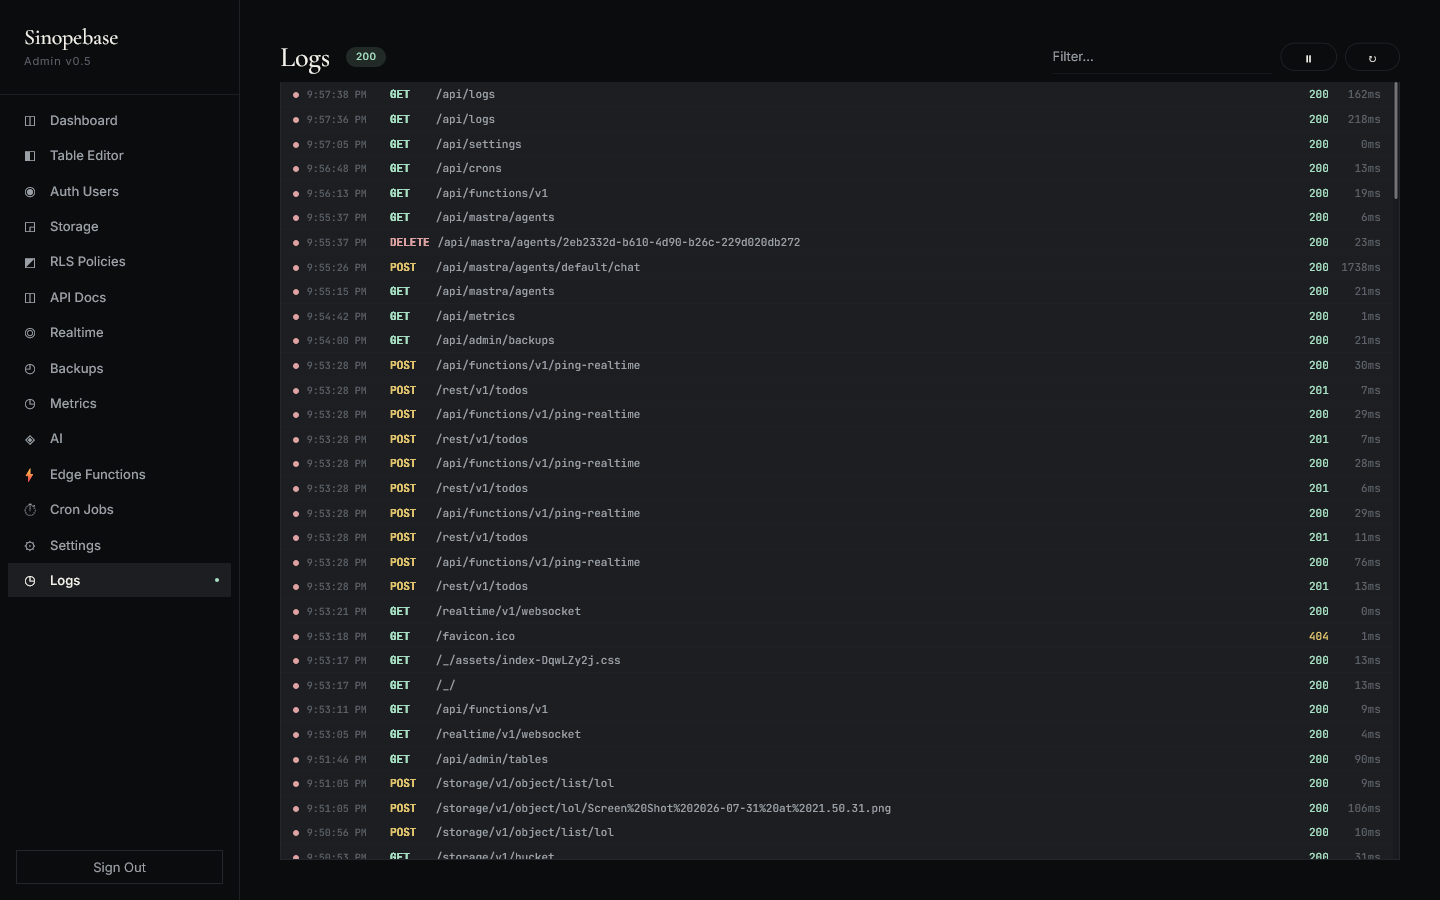
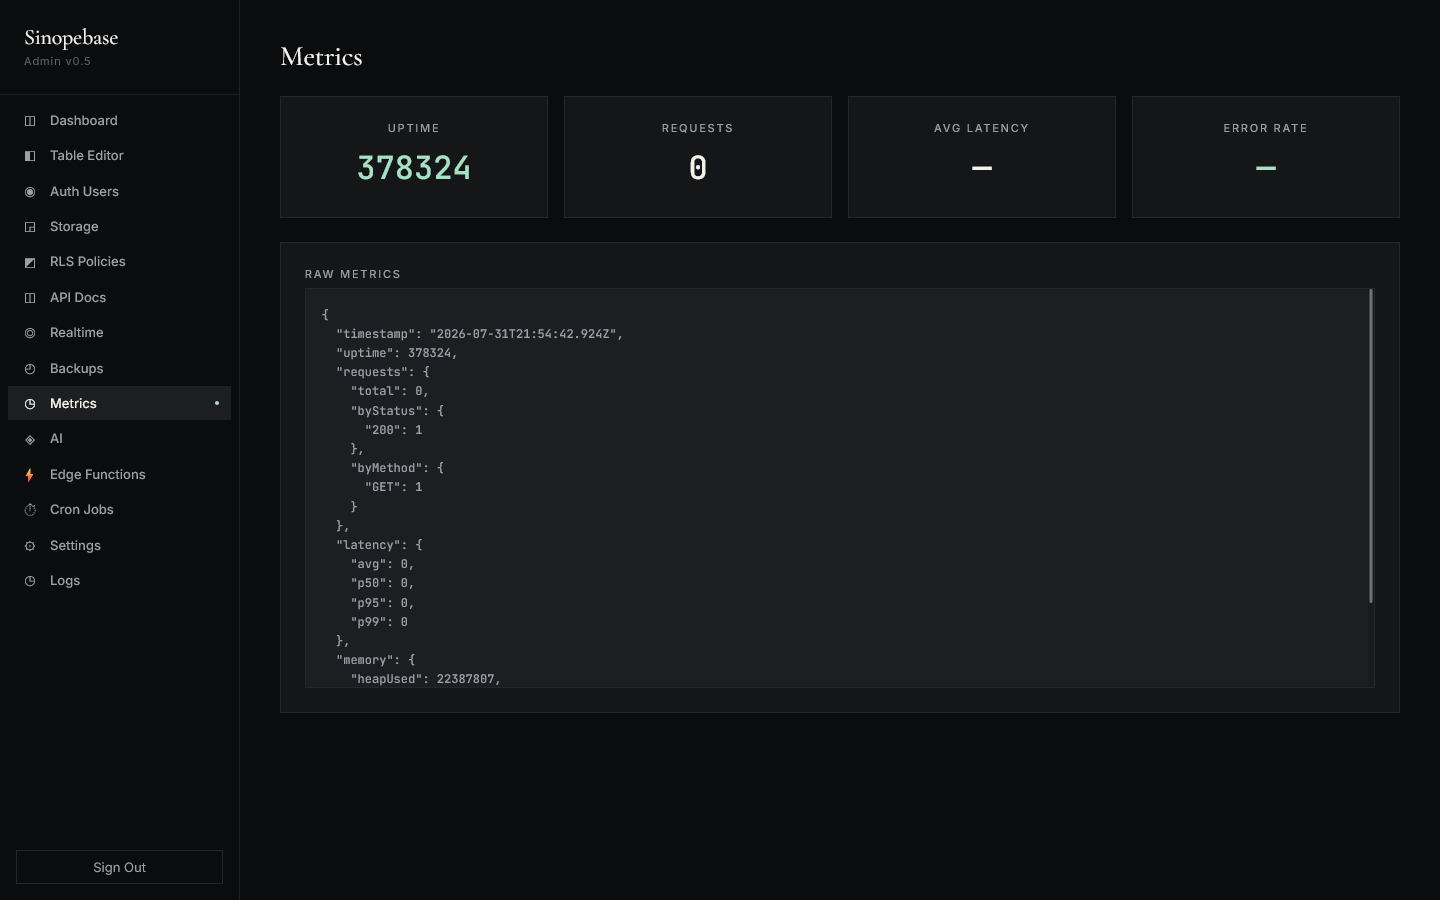
fix: add release workflow, format fixes, remove unused loadProviders import
- .github/workflows/release.yml was untracked — now committed so tag v0.6.0 triggers binary builds
- Format fixes from biome format --write
- Remove unused loadProviders destructure in app.ts (typecheck regression)

diff --git a/src/core/app.ts b/src/core/app.ts
@@ -1403,7 +1403,7 @@ export class Sinopebase {
     }
 
     // ── Admin OAuth Providers API — CRUD for OAuth/OIDC providers ──
-    const { createAdminOAuthPlugin, loadProviders } = await import('../apis/admin-oauth')
+    const { createAdminOAuthPlugin } = await import('../apis/admin-oauth')
     s5.use(
       createAdminOAuthPlugin(
         this.dataDir(),

diff --git a/CONTRIBUTING.md b/CONTRIBUTING.md
@@ -1,0 +1,114 @@
+# Contributing to Sinopebase
+
+Thanks for your interest. Sinopebase follows **acceptance test-driven development (ATDD)** — every feature starts as a failing test that exercises real infrastructure.
+
+## Quick Links
+
+- [Security vulnerabilities → SECURITY.md](SECURITY.md) — do NOT open a public issue
+- [Code of Conduct → CODE_OF_CONDUCT.md](CODE_OF_CONDUCT.md)
+- [Architecture → docs/development.md](docs/development.md)
+
+## Development Setup
+
+```bash
+bun install
+docker compose up -d          # PostgreSQL + RustFS
+bun run dev                   # → http://localhost:8090
+```
+
+## Quality Gates (must pass before PR)
+
+```bash
+bun test                      # Full suite
+bun run typecheck             # tsc --noEmit (strict mode)
+bun run lint                  # Biome + ESLint
+bun run ci                    # All gates
+```
+
+## How to Contribute
+
+### 1. Find or open an issue
+
+All PRs should reference an issue. If you're fixing something without an issue, open one first so we can discuss the approach.
+
+### 2. Write the test first
+
+Sinopebase tests run against real PostgreSQL + RustFS in Docker. No mocks, no SQLite stand-ins.
+
+- Contract tests: `tests/integration/` — HTTP-level, exercise the full stack
+- Component tests: `tests/integration/app-lifecycle.test.ts` — app-level
+- Unit tests: co-located with source (`src/**/*.test.ts`)
+
+```bash
+# Run a specific test file
+bun test tests/integration/auth.test.ts
+
+# Run a specific test pattern
+bun test --test-name-pattern "signInWithPassword"
+```
+
+### 3. Implement
+
+Code style:
+- TypeScript strict mode — no `any`, no implicit returns
+- Use `~/` path aliases (maps to `src/`), not relative paths
+- Elysia for HTTP, Kysely for SQL
+- Match the existing pattern — look at surrounding code
+
+### 4. Open a PR
+
+- Reference the issue number (`Closes #123`)
+- Describe what changed and why
+- Confirm `bun run ci` passes locally
+- Wait for CI to complete (all 9 quality gates must be green)
+
+## Architecture
+
+Five layers, each testable in isolation:
+
+```
+entry-points → apis → forms → core → tools
+```
+
+- **tools** — low-level primitives (auth providers, file stores, DB adapters, mailers)
+- **core** — domain logic (collections, records, fields, events, hooks, cron)
+- **forms** — request/response validation and transformation
+- **apis** — HTTP route definitions (REST, Auth, Realtime, Storage, Functions)
+- **entry-points** — the CLI server binary and plugin wiring
+
+See [docs/development.md](docs/development.md) for the full architecture guide.
+
+## Commit Conventions
+
+```
+phase/domain: what changed
+
+Co-Authored-By: Claude <noreply@anthropic.com>
+```
+
+Examples:
+- `core/rls: fix SET LOCAL ROLE in transaction context`
+- `apis/postgrest: add head count support with content-range header`
+- `ui/table-editor: fix CSV export for empty columns`
+
+## Project Conventions
+
+- **Tests first.** No PR merges without passing tests.
+- **Atomic commits.** One concern per commit. Don't mix refactoring with features.
+- **Plugin pattern.** New subsystems use `class Plugin { constructor(options) {} async register(app, auth?) {} }`.
+- **No silent failures.** Errors propagate. `try {}` blocks always have explicit handling.
+
+## Review Process
+
+1. CI must pass (all 9 gates: test, typecheck, lint, build, UI build, Docker, SAST, dependency audit, container scan)
+2. One maintainer review required
+3. No lingering TODOs in touched code (replace with tracked issues)
+
+## Getting Help
+
+- [GitHub Issues](https://github.com/sinopebase/sinopebase/issues) for bugs and feature requests
+- [GitHub Discussions](https://github.com/sinopebase/sinopebase/discussions) for questions and ideas
+
+---
+
+Thanks for contributing. Ship carefully.

diff --git a/CODE_OF_CONDUCT.md b/CODE_OF_CONDUCT.md
@@ -1,0 +1,41 @@
+# Contributor Covenant Code of Conduct
+
+## Our Pledge
+
+We as members, contributors, and leaders pledge to make participation in our community a harassment-free experience for everyone, regardless of age, body size, visible or invisible disability, ethnicity, sex characteristics, gender identity and expression, level of experience, education, socio-economic status, nationality, personal appearance, race, religion, or sexual identity and orientation.
+
+We pledge to act and interact in ways that contribute to an open, welcoming, diverse, inclusive, and healthy community.
+
+## Our Standards
+
+Examples of behavior that contributes to a positive environment:
+
+- Demonstrating empathy and kindness toward other people
+- Being respectful of differing opinions, viewpoints, and experiences
+- Giving and gracefully accepting constructive feedback
+- Accepting responsibility and apologizing to those affected by our mistakes, and learning from the experience
+- Focusing on what is best not just for us as individuals, but for the overall community
+
+Examples of unacceptable behavior:
+
+- The use of sexualized language or imagery, and sexual attention or advances of any kind
+- Trolling, insulting or derogatory comments, and personal or political attacks
+- Public or private harassment
+- Publishing others' private information, such as a physical or email address, without their explicit permission
+- Other conduct which could reasonably be considered inappropriate in a professional setting
+
+## Enforcement Responsibilities
+
+Community leaders are responsible for clarifying and enforcing our standards of acceptable behavior and will take appropriate and fair corrective action in response to any behavior that they deem inappropriate, threatening, offensive, or harmful.
+
+## Scope
+
+This Code of Conduct applies within all community spaces, and also applies when an individual is officially representing the community in public spaces.
+
+## Enforcement
+
+Instances of abusive, harassing, or otherwise unacceptable behavior may be reported to the community leaders responsible for enforcement at **conduct@sinopebase.dev**. All complaints will be reviewed and investigated promptly and fairly.
+
+## Attribution
+
+This Code of Conduct is adapted from the [Contributor Covenant](https://www.contributor-covenant.org), version 2.1.

diff --git a/SECURITY.md b/SECURITY.md
@@ -1,0 +1,40 @@
+# Security Policy
+
+## Supported Versions
+
+| Version | Supported          |
+| ------- | ------------------ |
+| 0.5.x   | :white_check_mark: |
+| 0.4.x   | :white_check_mark: |
+| < 0.4   | :x:                |
+
+## Reporting a Vulnerability
+
+**Do not open a public issue.** Security vulnerabilities must be reported privately.
+
+Email: **security@sinopebase.dev**
+
+You will receive a response within 48 hours with:
+- Confirmation of receipt
+- An assessment of severity
+- A timeline for the fix
+
+We practice coordinated disclosure:
+1. Report is acknowledged within 48 hours
+2. Fix is developed and tested
+3. A security advisory is published on GitHub
+4. Credit is given to the reporter (unless you prefer anonymity)
+
+## Scope
+
+- The Sinopebase server binary and its HTTP API surface
+- The `sinopebase` SDK package
+- The admin UI (`/_/`)
+- The Docker image and Railway deployment template
+
+## Out of Scope
+
+- Deployments where the operator has disabled security defaults (HSTS, rate limiting, CORS whitelisting)
+- Issues in user-deployed Edge Functions
+- Issues in user-configured Mastra AI agents
+- Phishing or social engineering attacks against instance operators

diff --git a/README.md b/README.md
@@ -7,7 +7,7 @@
 </p>
 
 <p align="center">
-  <a href="https://github.com/sinopebase/sinopebase/actions/workflows/ci.yml"><img src="https://github.com/sinopebase/sinopebase/actions/workflows/ci.yml/badge.svg" alt="CI" /></a>
+  <a href="https://github.com/sinopebase/sinopebase/actions/workflows/ci.yml"><img src="https://github.com/KalvexDotDev/sinopebase/actions/workflows/supply-chain.yml/badge.svg" alt="CI" /></a>
   <a href="https://github.com/sinopebase/sinopebase/actions/workflows/supply-chain.yml"><img src="https://github.com/sinopebase/sinopebase/actions/workflows/supply-chain.yml/badge.svg" alt="Supply Chain" /></a>
   <a href="LICENSE"><img src="https://img.shields.io/badge/license-MIT-blue.svg" alt="License" /></a>
   <a href="https://bun.sh"><img src="https://img.shields.io/badge/runtime-Bun-%23fbf0df?logo=bun" alt="Bun" /></a>

diff --git a/.github/ISSUE_TEMPLATE/bug_report.md b/.github/ISSUE_TEMPLATE/bug_report.md
@@ -1,0 +1,44 @@
+---
+name: Bug Report
+about: Something is broken
+title: ''
+labels: bug
+assignees: ''
+---
+
+## Describe the bug
+
+A clear, concise description of what's broken.
+
+## To Reproduce
+
+Steps to reproduce:
+
+1. Clone and start (`docker compose up -d && bun install && bun run dev`)
+2. Call endpoint '...'
+3. See error
+
+```ts
+// Minimal code to reproduce
+```
+
+## Expected behavior
+
+What should have happened.
+
+## Environment
+
+- OS: [e.g. macOS 15, Windows 11, Ubuntu 24.04]
+- Bun version: [`bun --version`]
+- PostgreSQL version: [`psql --version`]
+- Sinopebase commit: [`git rev-parse HEAD`]
+
+## Logs / Output
+
+```
+Paste relevant server logs, stack traces, or test output here.
+```
+
+## Additional context
+
+Is this a regression? Did it work before? Any workarounds?

diff --git a/.github/ISSUE_TEMPLATE/feature_request.md b/.github/ISSUE_TEMPLATE/feature_request.md
@@ -1,0 +1,36 @@
+---
+name: Feature Request
+about: Propose something new
+title: ''
+labels: enhancement
+assignees: ''
+---
+
+## Problem statement
+
+What problem would this solve? Describe the use case — don't jump to the solution.
+
+## Proposed solution
+
+What would you like Sinopebase to do?
+
+## Alternatives considered
+
+What workarounds exist today? Why are they insufficient?
+
+## Scope
+
+- [ ] SDK (`sinopebase` client)
+- [ ] REST API (`/rest/v1`)
+- [ ] Auth API (`/auth/v1`)
+- [ ] Realtime (`/realtime/v1`)
+- [ ] Storage (`/storage/v1`)
+- [ ] Admin UI (`/_/`)
+- [ ] Edge Functions
+- [ ] Mastra / AI
+- [ ] CLI / build tooling
+- [ ] Documentation
+
+## Additional context
+
+Links, references, how Supabase or PocketBase handles this.

diff --git a/.github/PULL_REQUEST_TEMPLATE.md b/.github/PULL_REQUEST_TEMPLATE.md
@@ -1,0 +1,26 @@
+## Summary
+
+<!-- What does this PR do? One or two sentences. -->
+
+Closes #
+
+## Checklist
+
+- [ ] Tests added and passing (`bun test`)
+- [ ] TypeScript compiles clean (`bun run typecheck`)
+- [ ] Linter passes (`bun run lint`)
+- [ ] Full CI pipeline passes (`bun run ci`)
+- [ ] No new TODOs in changed files
+- [ ] Commit message follows convention (`domain: what changed`)
+
+## Test plan
+
+<!-- What tests did you add or update? What scenarios do they cover? -->
+
+## Screenshots / Recordings
+
+<!-- If this changes the Admin UI, include before/after screenshots. -->
+
+## Notes for reviewers
+
+<!-- Anything tricky, architectural decisions, trade-offs to validate. -->
